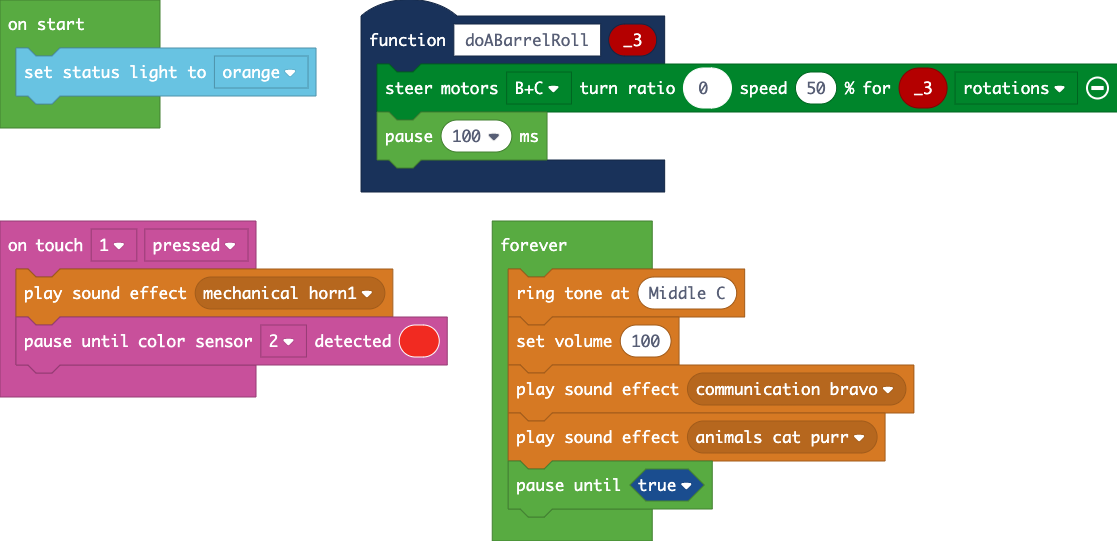
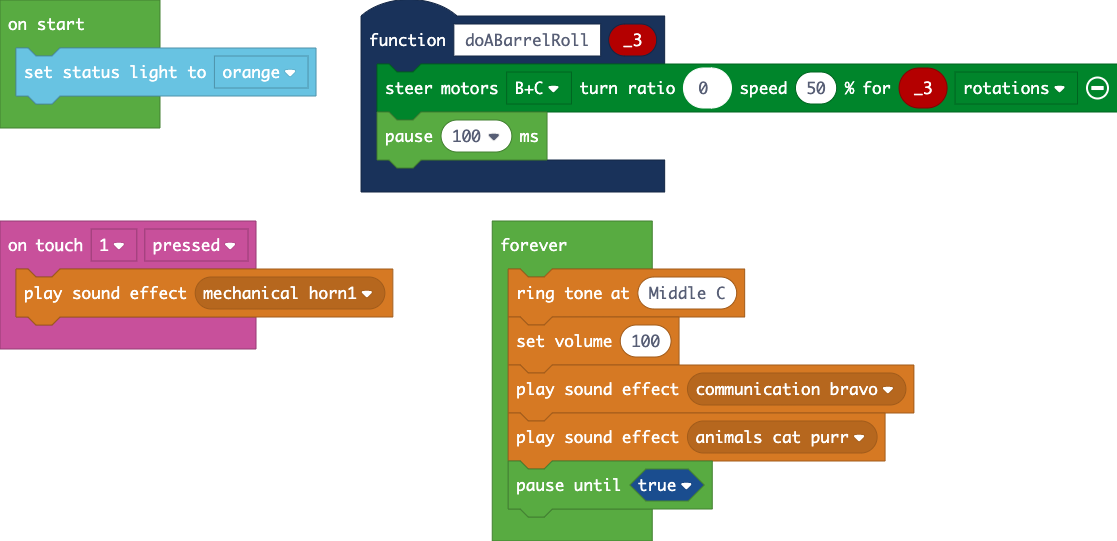
Update main.blocks, main.ts

Changed region(s): [[0.0, 0.5619, 0.4261, 0.7394]]

diff --git a/main.ts b/main.ts
@@ -4,7 +4,6 @@ function doABarrelRoll (_3: number) {
 }
 sensors.touch1.onEvent(ButtonEvent.Pressed, function () {
     music.playSoundEffect(sounds.mechanicalHorn1)
-    sensors.color2.pauseUntilColorDetected(ColorSensorColor.Red)
 })
 brick.setStatusLight(StatusLight.Orange)
 forever(function () {
